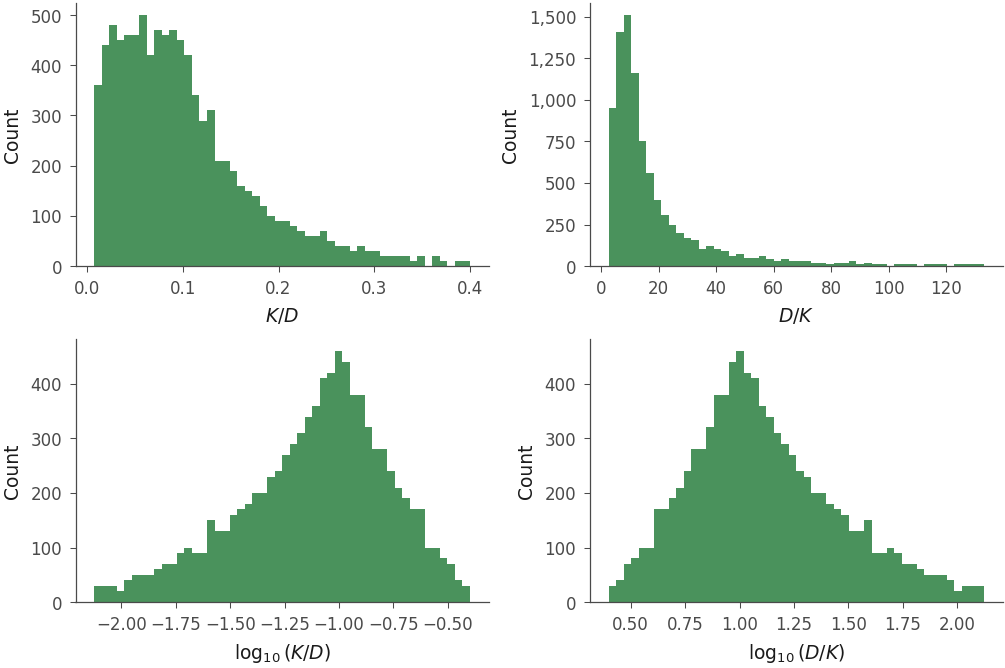
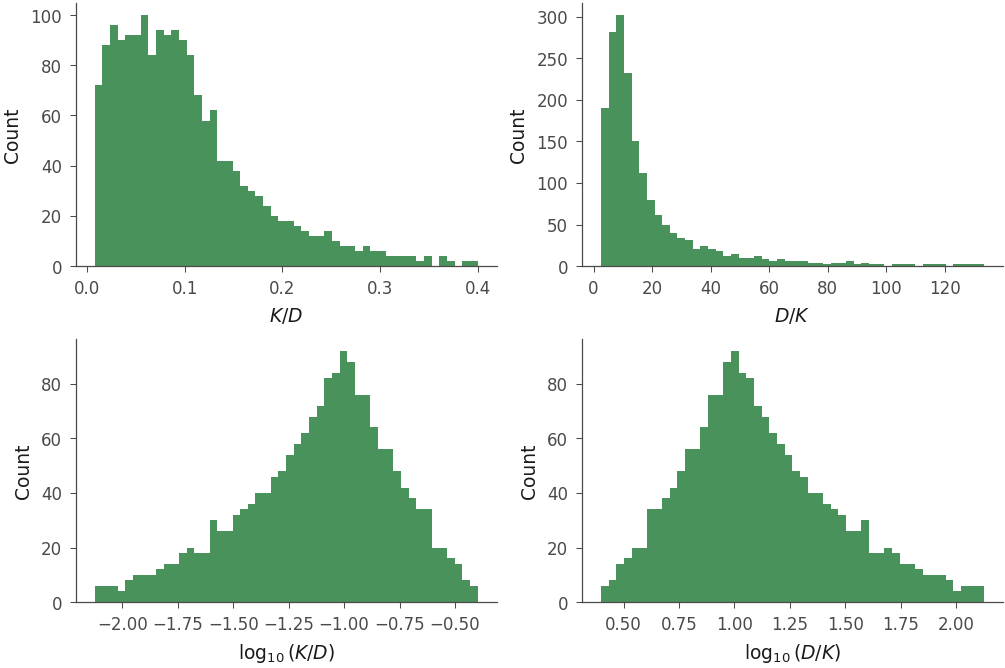
Fix target_distributions over-counting by filtering to single data type
true_labels are identical across all 5 data types (same model runs),
so filtering to elevation only gives the true test-set size of 1800
samples rather than 9000 (5x inflated counts).

diff --git a/notebooks/org/plots/render_figures.py b/notebooks/org/plots/render_figures.py
@@ -169,7 +169,8 @@ def render_target_distributions():
     target_dist_df = pd.read_csv(target_dist_path)
     target_dist_df = target_dist_df[
         (target_dist_df["seed"]  == 0) &
-        (target_dist_df["noise"] == 0)
+        (target_dist_df["noise"] == 0) &
+        (target_dist_df["data"]  == "elevation")
     ]
     target_dfs = {
         t: target_dist_df[target_dist_df["target"] == t]
